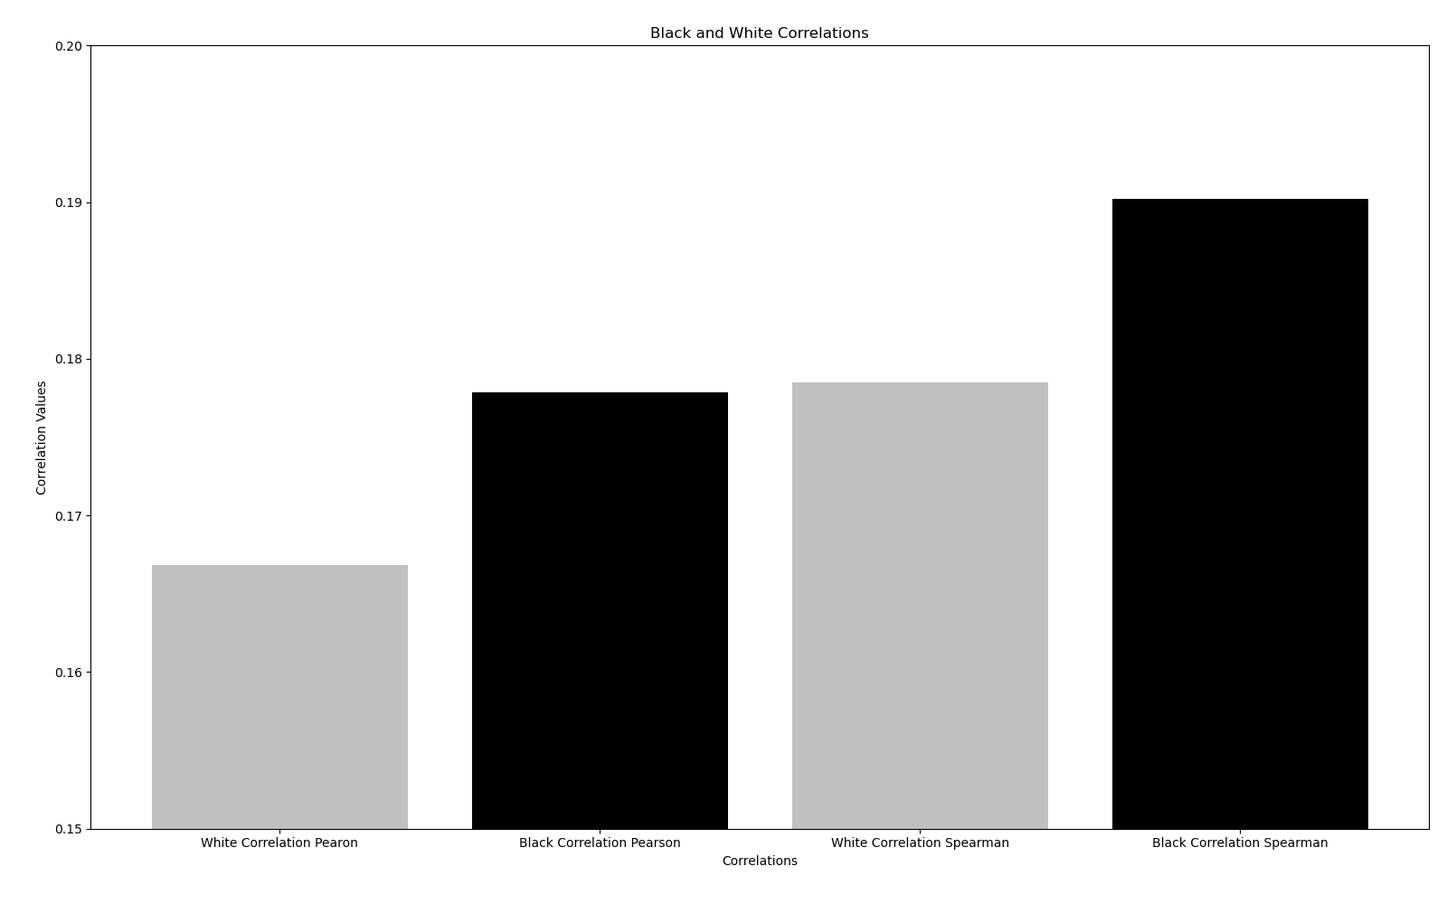
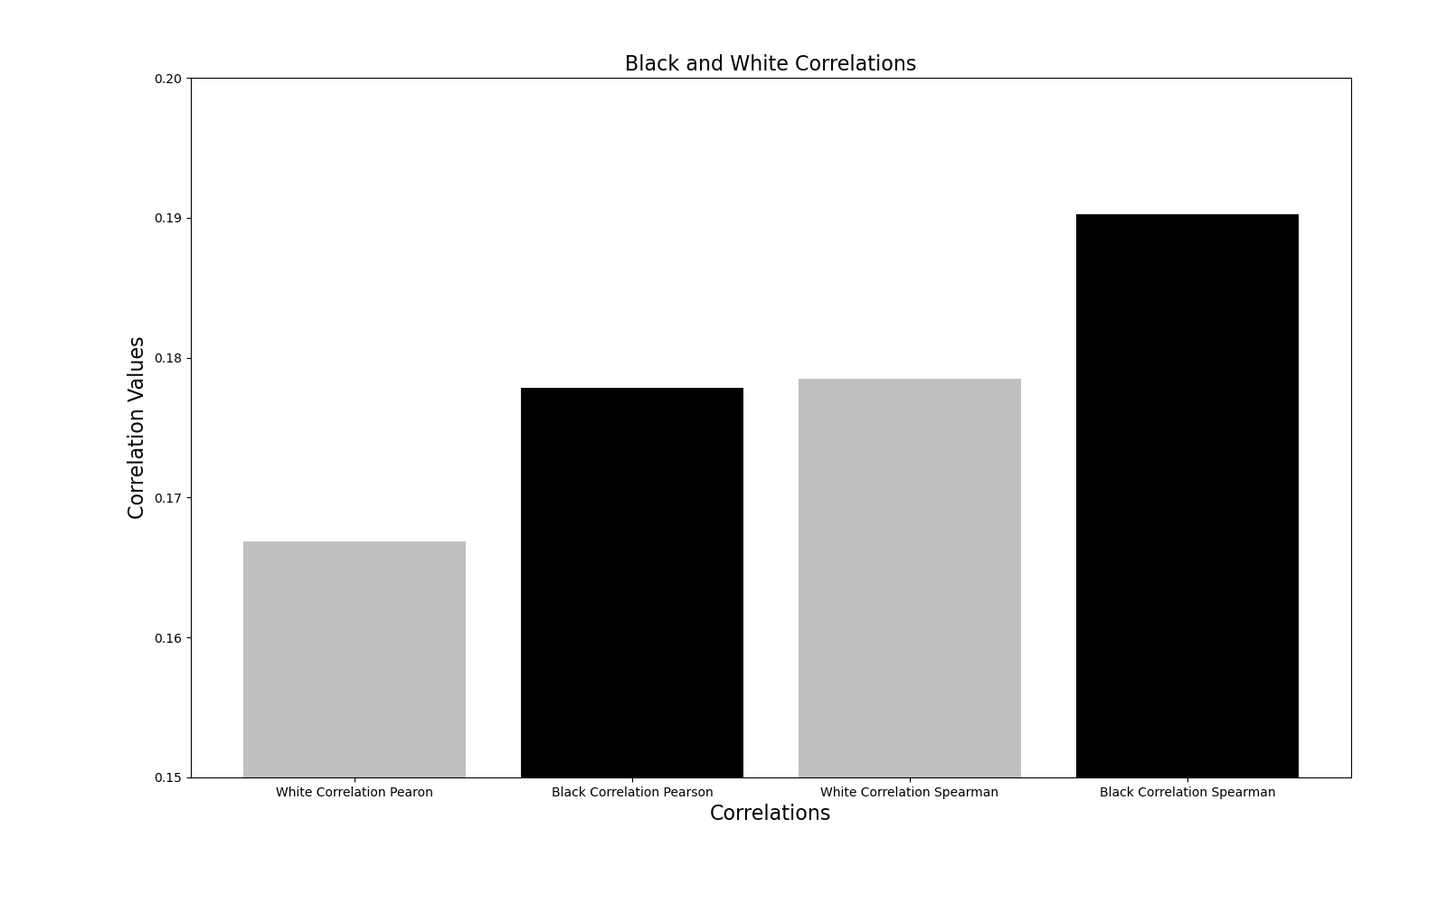
Working on PP.

diff --git a/src/chess.py b/src/chess.py
@@ -301,9 +301,9 @@ def chess_correlations(white, black, path="images/correlations.png"):
     c = ['silver', 'black', 'silver', 'black']
     ax.set_ylim(0.15, 0.20)
     plt.bar(x_axis_names, x_axis, color=c)
-    ax.set_title('Black and White Correlations')
-    ax.set_ylabel('Correlation Values')
-    ax.set_xlabel('Correlations')
+    ax.set_title('Black and White Correlations', fontsize = 16)
+    ax.set_ylabel('Correlation Values', fontsize = 16)
+    ax.set_xlabel('Correlations', fontsize = 16)
     plt.tight_layout()
     fig.set_size_inches(16, 10)
 
@@ -325,10 +325,9 @@ def chess_correlations(white, black, path="images/correlations.png"):
 
 # There is no true correlation between white or black being a significantly stronger opponent, in terms of ELO rating, 
 # and winning games versus losing or drawing games, as seen from the linear, Pearson correlations and the nonlinear, Spearman correlations below.
-# Shockingly, there is no true correlation between white or black being a significantly stronger opponent, in terms of ELO rating, and winning games versus losing or drawing games, 
-# as seen from the linear, Pearson correlations and the nonlinear, Spearman correlations below. 
-# Intuitively, one would think that over a continuous span of graudually increasing ELO differentials, there would be a correlation to the majority, binary class of 1, which is wins.
-
+# Intuitively, one would think that over a continuous span of gradually increasing ELO differentials, there would be a correlation to the majority, binary class of 1, which is wins.
+# Despite all of the players having respectable ratings at the very least, this counterintuition could be due to players still being considerably lower rated than grandmasters 
+# which leads to miscalculations and outright blunders, despite being the higher-rated player. 
 
 # The p-value is less than 0.05, so we reject the null hypothesis and there is significant difference, or impact, 
 # between the black rating differentials, with black being the superior opponent, and who wins the game.

diff --git a/README.md b/README.md
@@ -8,7 +8,15 @@
 <br />
 
 # Table of Contents
-- 
+- [Introduction](#introduction)
+- [Background Information](#background-information)
+- [Overall Information](#overall)
+- [Data Analysis & Vizualization](#data-analysis--vizualization)
+    - [Chess Outcomes Breakdown](#chess-outcomes-breakdown)
+    - [Hypothesis Testings](#hypothesis-testings)
+    - [Correlations: Pearson & Spearman](#correlations-pearson--spearman)
+    - [Logistic Regression](#logistic-regression)
+- [Conclusion](#conclusion)
 <br />
 
 ***
@@ -23,7 +31,7 @@ Lots of information is contained within a single chess game, let alone a full da
 ***
 ## **Background Information**
 ***
-The information conatined in the chess dataset is comprosed of the following factors:
+The information conatined in the chess dataset is comprised of the following factors:
 
 - Game ID
 
@@ -63,7 +71,7 @@ The information conatined in the chess dataset is comprosed of the following fac
 ***
 ## **Overall**
 ***
-The dataset provides a multitude of factors pertaining to chess games. After analyzing and cleaning the data [Chess Games](data/games.csv), it was initially determined that a logical focus would be on the outcomes of the [games](#chess-outcomes-breakdown) and more specifically the partitioning of [wins versus draws](#chess-outcomes-breakdown). Delving deeper, the overarching goal was to implement various methods to statistically analyze games where white and black are superior, with supporting supplemental features, and draw conclusions on our findings as it relates to wins versus draws and losses. 
+The dataset provides a multitude of factors pertaining to chess games. After analyzing and cleaning the data [Chess Games](data/games.csv), it was initially determined that a logical focus would be on the outcomes of the [games](#chess-outcomes-breakdown) and more specifically the partitioning of [wins versus draws](#chess-outcomes-breakdown). Delving deeper, the overarching goal was to implement various methods to statistically analyze games where white and black are superior, with supporting supplemental features, and draw conclusions on our findings as it relates to wins versus draws and losses along with determining if white has an innate advantage by moving first.
 <br />
 
 ***
@@ -76,32 +84,30 @@ Listed below is the data analysis and vizualization aspects for the chess games 
 After analyzing the outcomes of all of the chess games, it was revealed that a majority of the games ended in resignations and the least amount of games ended in draws.
 
 ![](images/chess_outcomes_breakdown.png) <br />
-
+***
 The next step was to aggregate all forms of wins, which are resignations, out of time, and mates, and perform a direct comparison against the amount of draws.
-
+***
 ![](images/wins_versus_draws.png) <br />
 
 ***
 ### Hypothesis Testings
 ***
 After seeing the disparity in overall wins versus losses, the next approach was to partition the dataset into two separate datasets for white and black based on the respective player being the superior opponent, or greater than 100 ELO difference, and mapped wins to 1 and draws or losses to 0. Then, for both datasets, we generated our null and alernative hypothesis, which are depcited below, and performed two-sample independent t-tests to analyze the p-values and ultimately the null & alternative hypotheses for rating differentials, number of consecutive moves where a player follows an optimal book, and number of turns in the game.  <br />
-
+***
 Null Hypothesis 1: The rating differential between black and white has no significance on which player wins the game. <br />
 
 Alternative Hypothesis 1: The rating differential between black and white has a significance on which player wins the game. <br />
-
+***
 Null Hypothesis 2: The number of consecutive moves where a player follows an optimal book opening has no significance on which player wins the game. <br />
 
 Alternative Hypothesis 2: The number of consecutive moves where a player follows an optimal book opening has a significance on which player wins the game. <br />
-
+***
 Null Hypothesis 3: The number of turns in a game has no significance on which player wins the game. <br />
 
 Alternative Hypothesis 3: The number of turns in a game has significance on which player wins the game. <br />
-
-After seeing the disparity in overall wins versus losses, the next approach was to partition the dataset into two separate datasets for white and black respectively. <br />
-
 ***
-A summary of the two-sample independent t-test results for black and white are found below. Additionally, histogram plots were generated to display player wins versus draws and losses when that respective player is the superior opponent..
+
+A summary of the two-sample independent t-test results for black and white are found below. Additionally, histogram plots were generated to display player wins versus draws and losses when that respective player is the superior opponent.
 ***
 
 White Games [Superior Opponent]:
@@ -120,29 +126,32 @@ When only considering wins and draws plus losses of a higher-ranked black oppone
 ***
 ### Correlations: Pearson & Spearman
 ***
-Next, perform linear, Pearson correlations and nonlinear, Spearman correlation to see potential correlations between rating differentals, for white and black respectively, and their victory status.![](images/correlations.png) Shockingly, there is no true correlation between white or black being a significantly stronger opponent, in terms of ELO rating, and winning games versus losing or drawing games, as seen from the linear, Pearson correlations and the nonlinear, Spearman correlations below. Intuitively, one would think that over a continuous span of graudually increasing ELO differentials, there would be a correlation to the majority, binary class of 1, which is wins. <br />
+Next, perform linear, Pearson correlations and nonlinear, Spearman correlation to see potential correlations between rating differentials, for white and black respectively, and their victory status.![](images/correlations.png) Shockingly, there is no true correlation between white or black being a significantly stronger opponent, in terms of ELO rating, and winning games versus losing or drawing games, as seen from the linear, Pearson correlations and the nonlinear, Spearman correlations below. Intuitively, one would think that over a continuous span of gradually increasing ELO differentials, there would be a correlation to the majority, binary class of 1, which is wins. Despite all of the players having respectable ratings at the very least, this counterintuition could be due to players still being considerably lower rated than grandmasters which leads to miscalculations and outright blunders, despite being the higher-rated player.   <br />
 
 ***
 ### Logistic Regression
 ***
-Since we have continuous numerical inputs, or features, in the form of: rating differentials, consecutive moves where a player follows an optimal book opening, and number of turns in the game along with a transformation of the target, or wins versus draws and losses, to binary values, we ran a logistic regression model. The logistic regression for both white and black utilized 5 folds, or subsets, with an 80% split of the samples into the training set and the remaining 20% of the data was held out for the test set. We determined the true positive rate, or probability of detection, as a function of false positive rate, or probability of false alarm, and generated a Receiver Operating Characteristic (ROC) curves for all 5 folds. Additionally, we generated the Area Under the Curve (AUC) for our ROC curves to determine the model's predictive accuracy and found that for all 5 folds, for both black and white, the AUC was bound between 0.61 and 0.64, which is indicative of poor predictive accuarcy for our model as 1.0 would be a perfect prediction. We believe that the model's predictive accuracy would increase if additional quantitative features were provided in the dataset that factor into winning a chess game versus losing or drawing. Some, but not all, of the excluded features are: hours of individual study/preparation, hours of analysis of the opponent's playstyle and openings selection, hours of sleep preceding the game, number of times the opponents have previously faced each other. ![](images/roc_curve_white.png) <br />
+Since the dataset contains continuous numerical inputs, or features, in the form of: rating differentials, consecutive moves where a player follows an optimal book opening, and number of turns in the game along with a transformation of the target, or wins versus draws and losses, to binary values, a logistic regression model was selected. The logistic regression for both white and black utilized 5 folds, or subsets, with an 80% split of the samples into the training set and the remaining 20% of the data was held out for the test set. A graphical output was generated for the true positive rate, or probability of detection, as a function of false positive rate, or probability of false alarm, on a Receiver Operating Characteristic (ROC) plot with curves for all 5 folds. Additionally, an Area Under the Curve (AUC) was generated for our ROC curves to determine the model's predictive accuracy and found that for all 5 folds, for both black and white, the AUC was bound between 0.61 and 0.64, which is indicative of poor predictive accuarcy for our model as 1.0 would be a perfect prediction. It's believed that the model's predictive accuracy would increase if additional quantitative features were provided in the dataset that factor into winning a chess game versus losing or drawing. Some, but not all, of the excluded features are: hours of individual study/preparation, hours of analysis of the opponent's playstyle and openings selection, hours of sleep preceding the game, number of times the opponents have previously faced each other. ![](images/roc_curve_white.png) <br />
 
 ![](images/roc_curve_black.png) <br />
 ***
 Also, across all 5 folds, the average accuracy, precision, recall, F1 Score, log loss, and log loss probability were determined for white and black. 
-
+***
 White Games [Superior Opponent]:
 
-The average accuracy and average precision across all 5 folds for white are both respectable and nearly the same with the average accuracy being approximately 72.42% and the average precision being approximately 72.70%. Accuracy is a function of true positives, true negatives, false positives, or probability of false alarms, and false negatives, or probability of incorrectly identifying that an attribute is absent. We can ascertain that our logistic regression model is being reduced due to the reasonable amount of false positives that are present and is supported by our precision also being reduced due to the same false positive generation. Precision is a function of true positives, or probability of detection, and false positives, which is the probability of a false alarm. We can ascertain that our logistic regression model has a reasonable amount of false positives, or incorrectly predicting the positive class of 1, when it should be predicting the negative class of 0, hence false positives are generated. The average recall across all 5 folds for white was excellent with a result of approximately 99.24%. Recall is a function of true positives, or probability of detection, and false negatives, which is the probability of incorrectly identifying that an attribute is absent. We can ascertain that our logistic regression model has very few false negatives, which would be missing the ability to successsfully predict the correct, positive class of 1 and instead predicting a negative class of 0. The average F1 Score across all 5 folds for white was very good with a result of approximately 83.91%. The average F1 score is a function of the average precision and average recall. The relatively good mean precision of 72.70% and stellar mean recall of 99.24% is yielding the great F1 score of approximately 83.91%. The average log loss across all 5 folds for white was only average with a result of approximately 0.5660, where 0 is optimal. The associated average probability of the log loss across all 5 folds for white was determined to be approximately 0.5696, which effectively denotes the probability of the logistic regression model predicting the proper class, 0 for draws & losses, and 1 for wins, respectively. The mediocre result for average log loss and average log loss probability could be due to an imbalanced dataset that truly contains significantly more wins, or binary values of 1, in comparsion to draws & losses, or binary values of 0.![]() <br />
+![](images/white_stats_table.png)
+
+The average accuracy and average precision across all 5 folds for white are both respectable and nearly the same with the average accuracy being approximately 72.42% and the average precision being approximately 72.70%. Accuracy is a function of true positives, true negatives, false positives, or probability of false alarms, and false negatives, or probability of incorrectly identifying that an attribute is absent. One can ascertain that our logistic regression model is being reduced due to the reasonable amount of false positives that are present and is supported by our precision also being reduced due to the same false positive generation. Precision is a function of true positives, or probability of detection, and false positives, which is the probability of a false alarm. One can ascertain that our logistic regression model has a reasonable amount of false positives, or incorrectly predicting the positive class of 1, when it should be predicting the negative class of 0, hence false positives are generated. The average recall across all 5 folds for white was excellent with a result of approximately 99.24%. Recall is a function of true positives, or probability of detection, and false negatives, which is the probability of incorrectly identifying that an attribute is absent. One can ascertain that our logistic regression model has very few false negatives, which would be missing the ability to successsfully predict the correct, positive class of 1 and instead predicting a negative class of 0. The average F1 Score across all 5 folds for white was very good with a result of approximately 83.91%. The average F1 score is a function of the average precision and average recall. The relatively good mean precision of 72.70% and stellar mean recall of 99.24% is yielding the great F1 score of approximately 83.91%. The average log loss across all 5 folds for white was only average with a result of approximately 0.5660, where 0 is optimal. The associated average probability of the log loss across all 5 folds for white was determined to be approximately 0.5696, which effectively denotes the probability of the logistic regression model predicting the proper class, 0 for draws & losses, and 1 for wins, respectively. The mediocre result for average log loss and average log loss probability could be due to an imbalanced dataset that truly contains significantly more wins, or binary values of 1, in comparsion to draws & losses, or binary values of 0.![]() <br />
 
 Black Games [Superior Opponent]:
+![](images/black_stats_table.png)
 
-The average accuracy and average precision across all 5 folds for black are both respectable and nearly the same with the average accuracy being approximately 69.38% and the average precision being approximately 69.39%. Accuracy is a function of true positives, true negatives, false positives, or probability of false alarms, and false negatives, or probability of incorrectly identifying that an attribute is absent. We can ascertain that our logistic regression model is being reduced due to the reasonable amount of false positives that are present and is supported by our precision also being reduced due to the same false positive generation. Precision is a function of true positives, or probability of detection, and false positives, which is the probability of a false alarm. We can ascertain that our logistic regression model has a reasonable amount of false positives, or incorrectly predicting the positive class of 1, when it should be predicting the negative class of 0, hence false positives are generated. The average recall across all 5 folds for black was excellent with a result of approximately 99.83%. Recall is a function of true positives, or probability of detection, and false negatives, which is the probability of incorrectly identifying that an attribute is absent. We can ascertain that our logistic regression model has very few false negatives, which would be missing the ability to successsfully predict the correct, positive class of 1 and instead predicting a negative class of 0. The average F1 Score across all 5 folds for black was very good with a result of approximately 81.86%. The average F1 score is a function of the average precision and average recall. The relatively good mean precision of 69.39% and stellar mean recall of 99.83% is yielding the great F1 score of approximately 81.86%. The average log loss across all 5 folds for black was only average with a result of approximately 0.5969, where 0 is optimal. The associated average probability of the log loss across all 5 folds for black was determined to be approximately 0.5162, which effectively denotes the probability of the logistic regression model predicting the proper class, 0 for draws & losses, and 1 for wins, respectively. The mediocre result for average log loss and average log loss probability could be due to an imbalanced dataset that truly contains significantly more wins, or binary values of 1, in comparsion to draws & losses, or binary values of 0. <br />
+The average accuracy and average precision across all 5 folds for black are both respectable and nearly the same with the average accuracy being approximately 69.38% and the average precision being approximately 69.39%. Accuracy is a function of true positives, true negatives, false positives, or probability of false alarms, and false negatives, or probability of incorrectly identifying that an attribute is absent. One can ascertain that our logistic regression model is being reduced due to the reasonable amount of false positives that are present and is supported by our precision also being reduced due to the same false positive generation. Precision is a function of true positives, or probability of detection, and false positives, which is the probability of a false alarm. One can ascertain that our logistic regression model has a reasonable amount of false positives, or incorrectly predicting the positive class of 1, when it should be predicting the negative class of 0, hence false positives are generated. The average recall across all 5 folds for black was excellent with a result of approximately 99.83%. Recall is a function of true positives, or probability of detection, and false negatives, which is the probability of incorrectly identifying that an attribute is absent. One can ascertain that our logistic regression model has very few false negatives, which would be missing the ability to successsfully predict the correct, positive class of 1 and instead predicting a negative class of 0. The average F1 Score across all 5 folds for black was very good with a result of approximately 81.86%. The average F1 score is a function of the average precision and average recall. The relatively good mean precision of 69.39% and stellar mean recall of 99.83% is yielding the great F1 score of approximately 81.86%. The average log loss across all 5 folds for black was only average with a result of approximately 0.5969, where 0 is optimal. The associated average probability of the log loss across all 5 folds for black was determined to be approximately 0.5162, which effectively denotes the probability of the logistic regression model predicting the proper class, 0 for draws & losses, and 1 for wins, respectively. The mediocre result for average log loss and average log loss probability could be due to an imbalanced dataset that truly contains significantly more wins, or binary values of 1, in comparsion to draws & losses, or binary values of 0. <br />
 
 ***
-### Conclusion
+## Conclusion
 ***
-When comparing filtered games where white is the superior opponent with black being the superior opponent, the total games in each respective database very similar with comparable wins versus draws and losses. When running one version of a logistic regression model for both white and black games, we see very similar average metrics for the accuracy, precision, recall, F1 score, log loss, and log loss probability. However, when utilizing a different logistic regression statistical model, a worthwhile not is looking at the respective inputs, or features, for our white and black chess games, respectively. The three features utilized for both black and white games were rating differential, number of turns in the game, and opening play, which is the consecutive moves from the initiation of the game that opponents stick to an optimal, book opening. In general, typically skilled players, even with reasonable rating differentials, will have games with a substantial amount of moves because they avoid suboptimal moves and outright blunders. More specifically, with the white games, our three features all had p-values of 0.000, which are significant since they are less than 0.05, and thus are a good choice to be incorporated into predicting our target, or binary output of wins versus draws and losses. Regarding the black games, the rating differential feature was determined to be significant at 0.000, but interestingly enough the number of terms and opening play were didn't yeild significant p-values, or greater than 0.05, at 0.225 and 0.372, respectively.
+When comparing filtered games where white is the superior opponent with black being the superior opponent, the total games in each respective database very similar with comparable wins versus draws and losses. When running one version of a logistic regression model for both white and black games, one see very similar average metrics for the accuracy, precision, recall, F1 score, log loss, and log loss probability. However, when utilizing a different logistic regression statistical model, a worthwhile not is looking at the respective inputs, or features, for our white and black chess games, respectively. The three features utilized for both black and white games were rating differential, number of turns in the game, and opening play, which is the consecutive moves from the initiation of the game that opponents stick to an optimal, book opening. In general, typically skilled players, even with reasonable rating differentials, will have games with a substantial amount of moves because they avoid suboptimal moves and outright blunders. More specifically, with the white games, our three features all had p-values of 0.000, which are significant since they are less than 0.05, and thus are a good choice to be incorporated into predicting our target, or binary output of wins versus draws and losses. Regarding the black games, the rating differential feature was determined to be significant at 0.000, but interestingly enough the number of terms and opening play were didn't yield significant p-values, or greater than 0.05, at 0.225 and 0.372, respectively.
 There has been extensive, cumulative analysis on chess throughout the years to determine that white has an innate advantage simply by being the first player to make a move. The respective difference in significances of our features between white and black games might indicate the fact that due to the inherent disadvantage of black being the responsive player, there is no significance on the number of moves and sticking to an optimal book opening. Essentially, the disadvantage of moving second might trump the ability to follow optimal book openings and play in technically sound games that contain a large number of moves.![](images/stats_model_white.png) <br />
 
 ![](images/stats_model_black.png)
